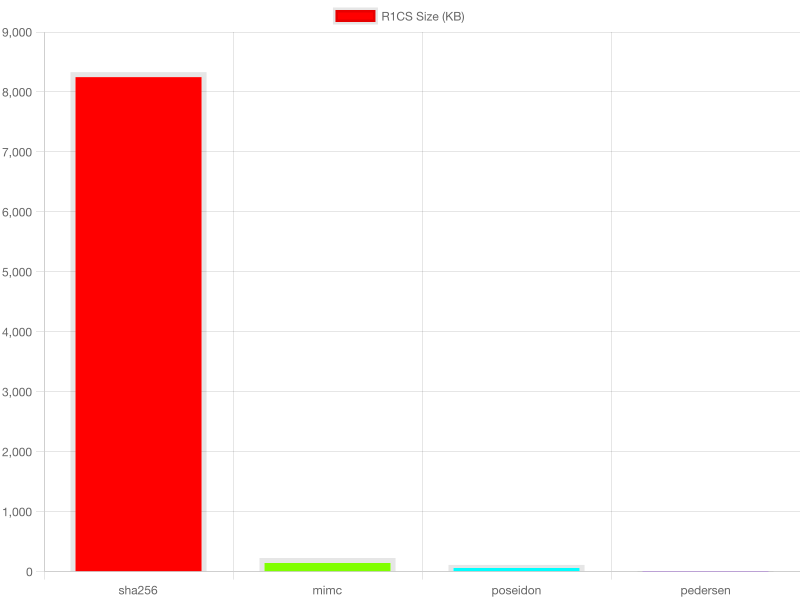
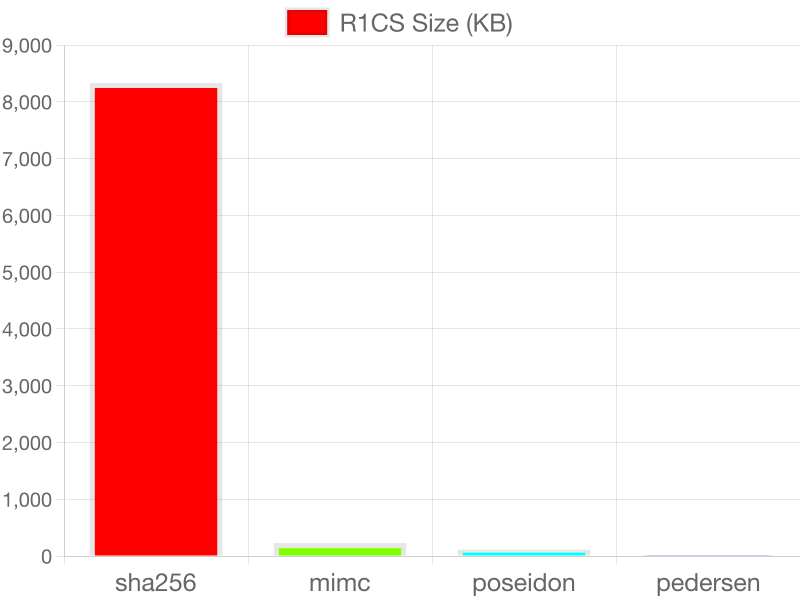
plot font size increased

diff --git a/visualizor.js b/visualizor.js
@@ -19,6 +19,34 @@ async function generateBarGraph(labels, data, path, label) {
                 }),
                 borderWidth: 5
             }]
+        },
+        options: {
+            plugins: {
+                legend: {
+                    labels: {
+                        font: {
+                            size: 25 // Increase legend font size
+                        }
+                    }
+                }
+            },
+            scales: {
+                y: {
+                    beginAtZero: true,
+                    ticks: {
+                        font: {
+                            size: 20 // Increase y-axis tick font size
+                        }
+                    }
+                },
+                x: {
+                    ticks: {
+                        font: {
+                            size: 25 // Increase x-axis tick font size
+                        }
+                    }
+                }
+            }
         }
     });
     
